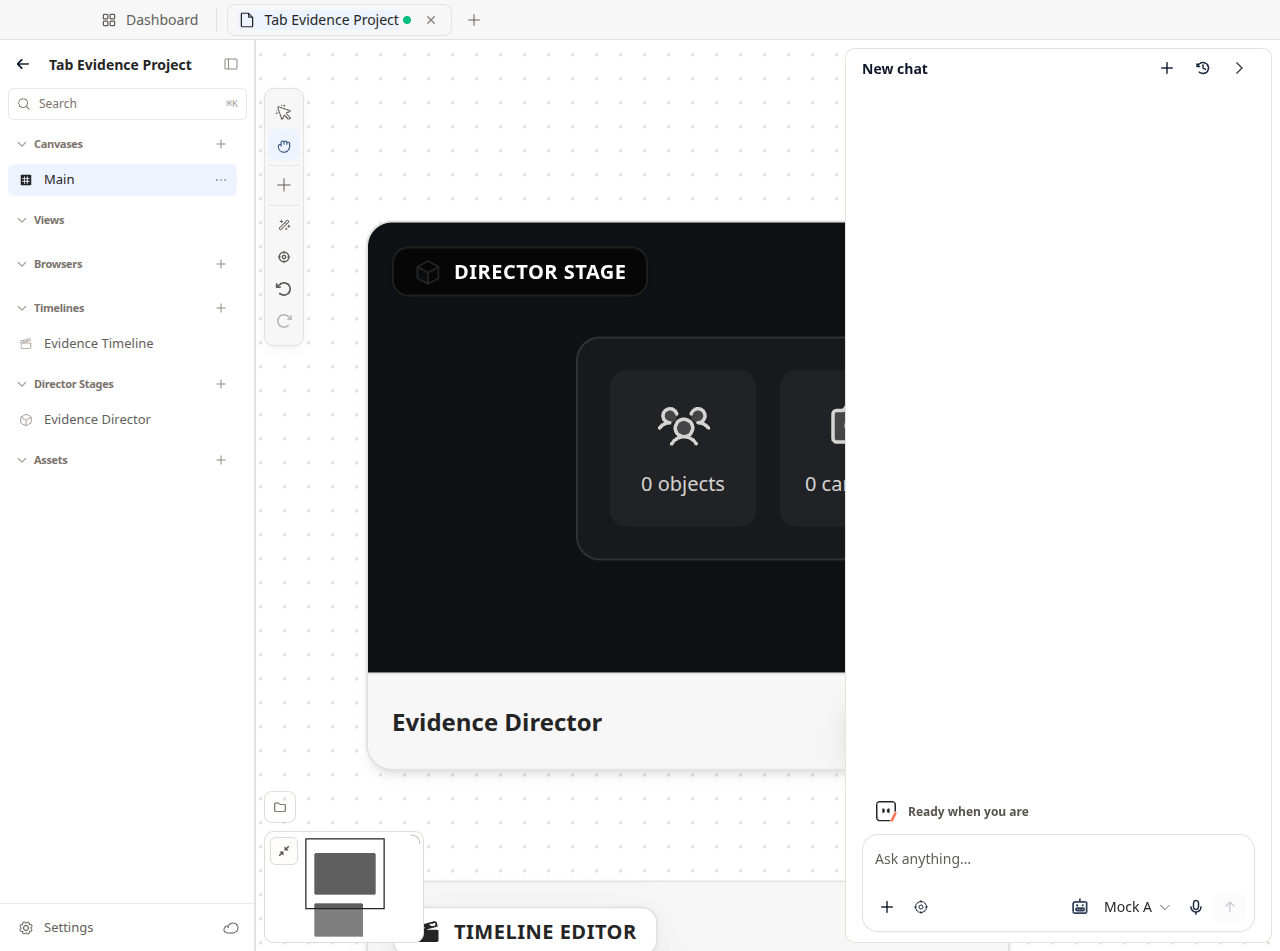
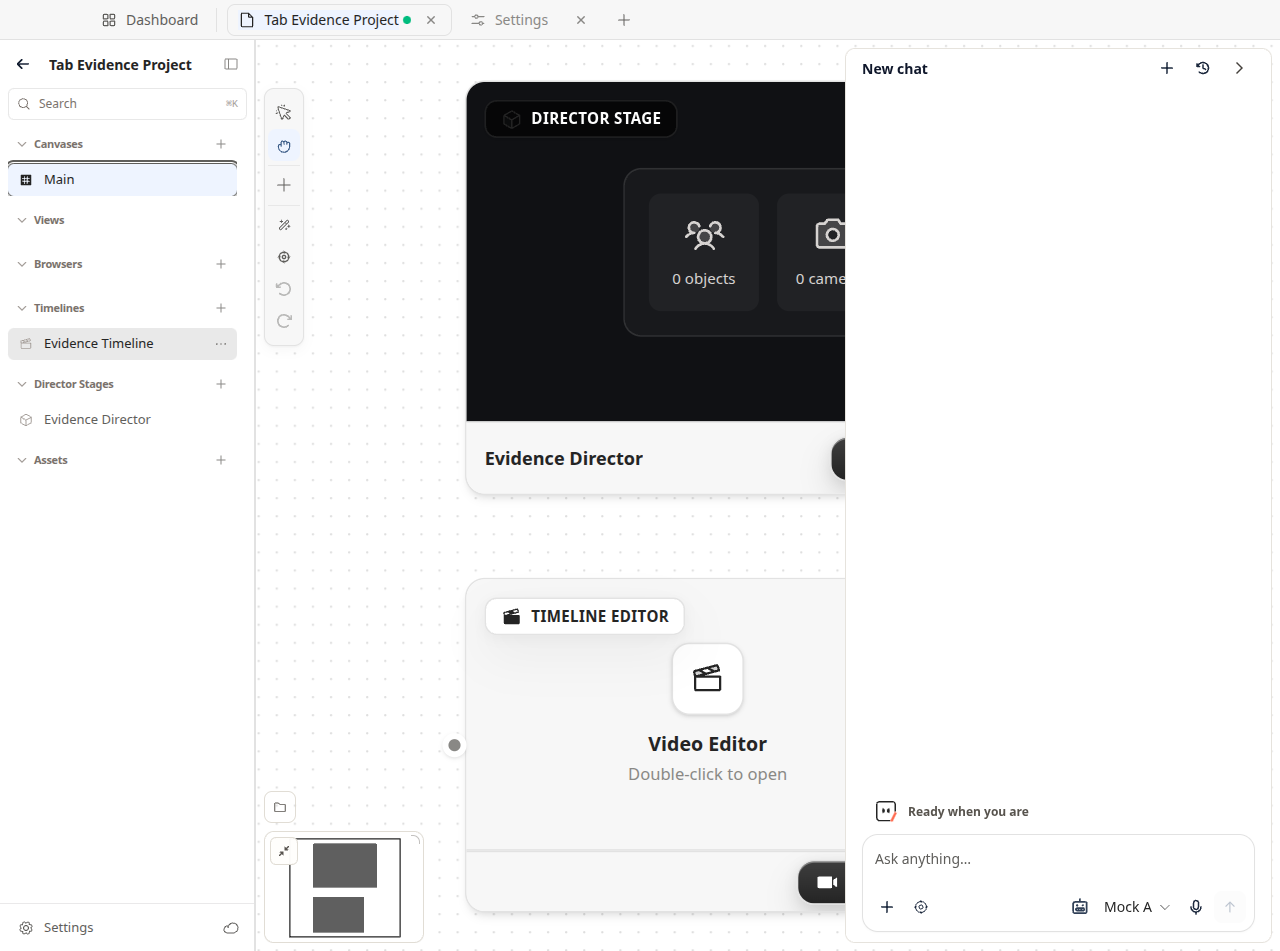
chore(pr25): refresh after evidence, director zoom, computed-styles
- Capture script: agent-browser hover, Settings tab switch, style audit
- Director *-zoom.png crops; computed-styles.json for PR table
- Tab focus ring uses full control-focus token + box-shadow

diff --git a/scripts/capture-interactive-tab-evidence.ts b/scripts/capture-interactive-tab-evidence.ts
@@ -158,22 +158,32 @@ async function openSettingsWorkspaceTab(
   );
 }
 
-async function navigateProjectPath(
+async function returnToPrimaryProject(
   agentBrowser: ReturnType<typeof createAgentBrowser>,
   recovery: { cdpPort: number; expectedUrlPrefix: string },
-  projectPath: string,
+  primaryProjectPath: string,
 ) {
-  evalOnPage(agentBrowser, recovery, `(() => {
-    window.history.pushState({}, "", ${JSON.stringify(projectPath)});
-    window.dispatchEvent(new PopStateEvent("popstate"));
-    return location.pathname;
-  })()`);
   await waitForEvalRecovered(
     agentBrowser,
     recovery,
-    `location.pathname === ${JSON.stringify(projectPath)}`,
-    `project route ${projectPath}`,
+    `document.querySelectorAll('[data-desktop-workspace-tab="true"] [role="tab"]').length >= 1`,
+    "workspace tabs after settings",
     30000,
+  );
+  const labels = evalOnPage(
+    agentBrowser,
+    recovery,
+    `[...document.querySelectorAll('[data-desktop-workspace-tab="true"] [role="tab"]')].map((tab) => tab.getAttribute("aria-label") || "")`,
+  ) as string[];
+  for (const label of labels) {
+    if (!label || label === "Settings") continue;
+    clickWorkspaceTab(agentBrowser, label);
+    await sleep(500);
+    const path = evalOnPage(agentBrowser, recovery, "location.pathname") as string;
+    if (path === primaryProjectPath) return label;
+  }
+  throw new Error(
+    `Could not return to ${primaryProjectPath} from workspace tabs: ${JSON.stringify(labels)}`,
   );
 }
 
@@ -1060,21 +1070,8 @@ async function main() {
       90000,
     );
 
-    const primaryTabTitle = (evalOnPage(
-      agentBrowser,
-      recovery,
-      `document.querySelector('[data-desktop-workspace-tab="true"] [role="tab"][aria-selected="true"]')?.getAttribute("aria-label") || ${JSON.stringify(PRIMARY_PROJECT)}`,
-    ) ?? PRIMARY_PROJECT) as string;
-
     await openSettingsWorkspaceTab(agentBrowser, recovery);
-    await selectWorkspaceTab(agentBrowser, recovery, primaryTabTitle);
-    await waitForEvalRecovered(
-      agentBrowser,
-      recovery,
-      `location.pathname === ${JSON.stringify(primaryProjectPath)}`,
-      "primary project route after settings tab",
-      30000,
-    );
+    const primaryTabTitle = await returnToPrimaryProject(agentBrowser, recovery, primaryProjectPath);
     await waitForEvalRecovered(
       agentBrowser,
       recovery,
